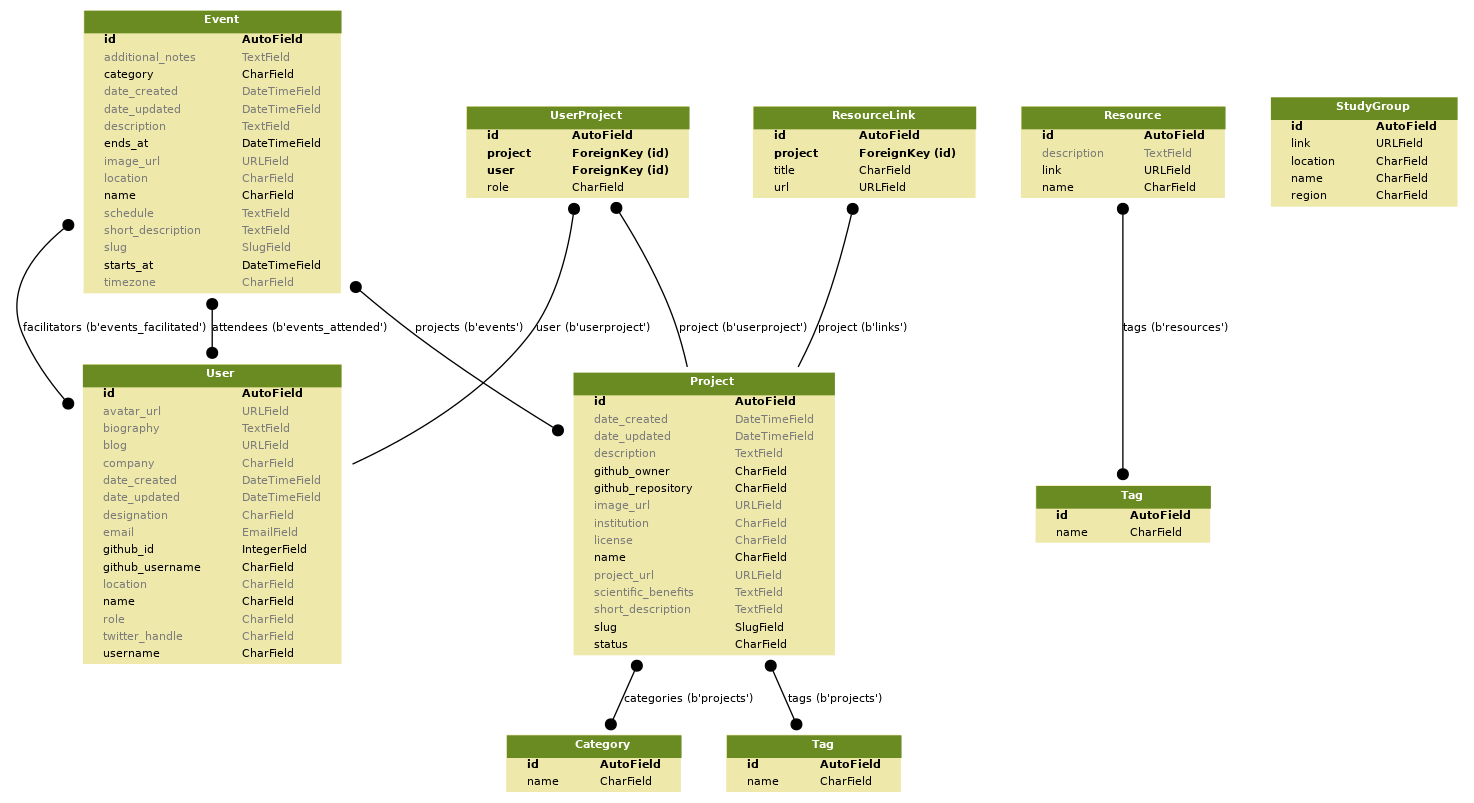
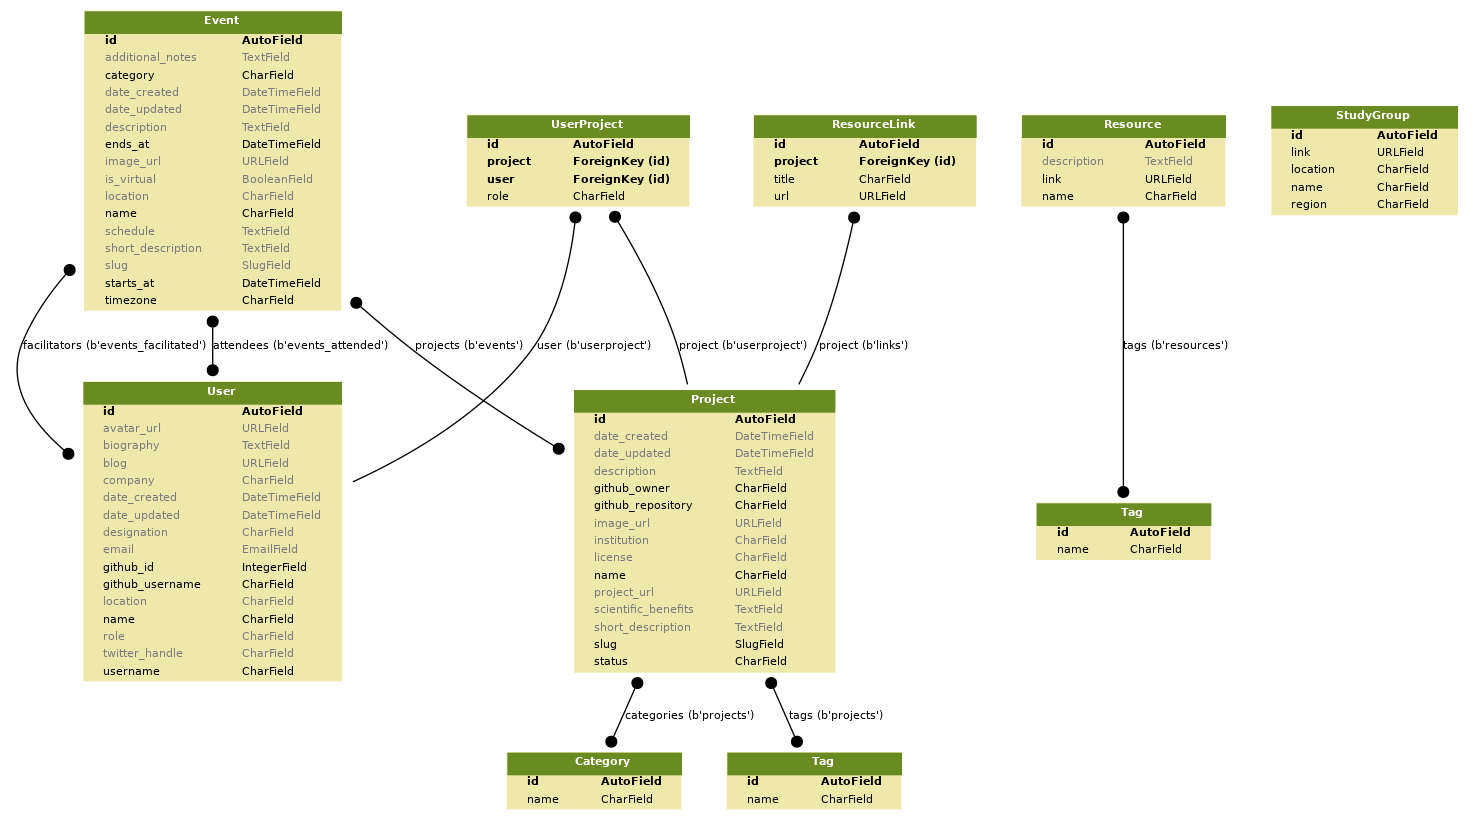
Solve timezone issues
This commit does the following:
  - Creates a is_virtual flag
  - Restrict choice of timezone to select element options
  - Select and display time in the timezone set by user

Fixes https://github.com/mozilla/science.mozilla.org/issues/385

diff --git a/app/scienceapi/static/admin/custom-event-admin.css b/app/scienceapi/static/admin/custom-event-admin.css
@@ -1,0 +1,17 @@
+/* Removes Timezone warning from admin */
+.timezonewarning {
+    display: none;
+}
+
+/* Remove relative datetime pickers */
+.datetimeshortcuts > * {
+    display: none;
+}
+
+a[id^='calendarlink'], a[id^='clocklink'] {
+    display: inline;
+}
+
+.calendar-shortcuts {
+    display: none;
+}

diff --git a/app/scienceapi/events/admin.py b/app/scienceapi/events/admin.py
@@ -1,8 +1,45 @@
 from django.contrib import admin
 
+import pytz
 from .models import Event
+from .forms import EventAdminForm
 
 
 @admin.register(Event)
 class EventAdmin(admin.ModelAdmin):
     raw_id_fields = ('attendees', 'facilitators', 'projects',)
+
+    form = EventAdminForm
+
+    def save_model(self, request, obj, form, change):
+        tz = pytz.timezone(obj.timezone)
+
+        # First converting to naive timezone, otherwise localize wont work.
+        start = obj.starts_at.replace(tzinfo=None)
+        end = obj.ends_at.replace(tzinfo=None)
+
+        # Using the user selected timezone
+        obj.starts_at = tz.localize(start)
+        obj.ends_at = tz.localize(end)
+        super().save_model(request, obj, form, change)
+
+    def get_object(self, request, object_id, from_field):
+        obj = super().get_object(request, object_id, from_field)
+
+        if obj is not None:
+            tz = pytz.timezone(obj.timezone)
+
+            # Converting the datetimes to user selected timezones
+            start = obj.starts_at.astimezone(tz)
+            end = obj.ends_at.astimezone(tz)
+
+            # Then converting to naive timezone, otherwise django-templates
+            # will change it back to UTC
+            obj.starts_at = start.replace(tzinfo=None)
+            obj.ends_at = end.replace(tzinfo=None)
+        return obj
+
+    class Media:
+        css = {
+            'all': ('admin/custom-event-admin.css',)
+        }

diff --git a/app/scienceapi/events/models.py b/app/scienceapi/events/models.py
@@ -43,6 +43,7 @@ class Event(models.Model):
         ),
         help_text='Select the type of event'
     )
+
     image_url = models.URLField(
         max_length=500,
         null=True,
@@ -70,15 +71,24 @@ class Event(models.Model):
         help_text='Slug appended to the Mozilla Science event\'s '
                   'url that represents this event',
     )
+    is_virtual = models.BooleanField(
+        default=False,
+        help_text='When selected, events will appear on site converted '
+                  'to a visitor\'s local time.',
+        verbose_name='Virtual Event'
+    )
+
+    timezone = models.CharField(
+        max_length=40,
+        help_text='Timezone of the place where the event will be held. '
+                  'If the event is virtual, use whatever time zone you like '
+                  'and enter the times in that zone.'
+    )
+
     date_created = models.DateTimeField(auto_now_add=True)
     date_updated = models.DateTimeField(auto_now=True)
     starts_at = models.DateTimeField()
     ends_at = models.DateTimeField()
-    timezone = models.CharField(
-        max_length=10,
-        null=True,
-        blank=True,
-    )
     location = models.CharField(
         max_length=300,
         null=True,

diff --git a/app/scienceapi/events/migrations/0008_auto_20170605_1624.py b/app/scienceapi/events/migrations/0008_auto_20170605_1624.py
@@ -1,0 +1,26 @@
+# -*- coding: utf-8 -*-
+# Generated by Django 1.9.5 on 2017-06-05 16:24
+from __future__ import unicode_literals
+
+from django.db import migrations, models
+
+
+class Migration(migrations.Migration):
+
+    dependencies = [
+        ('events', '0007_auto_20170526_2044'),
+    ]
+
+    operations = [
+        migrations.AddField(
+            model_name='event',
+            name='is_virtual',
+            field=models.BooleanField(default=False, help_text="When selected, events will appear on site converted to a visitor's local time.", verbose_name='Virtual Event'),
+        ),
+        migrations.AlterField(
+            model_name='event',
+            name='timezone',
+            field=models.CharField(default='UTC', help_text='Timezone of the place where the event will be held. If the event is virtual, use whatever time zone you like and enter the times in that zone.', max_length=40),
+            preserve_default=False,
+        ),
+    ]

diff --git a/app/scienceapi/events/forms.py b/app/scienceapi/events/forms.py
@@ -1,0 +1,9 @@
+from django import forms
+import pytz
+
+
+ALL_TIMEZONES = [(i, i) for i in pytz.all_timezones]
+
+
+class EventAdminForm(forms.ModelForm):
+    timezone = forms.ChoiceField(choices=ALL_TIMEZONES)
